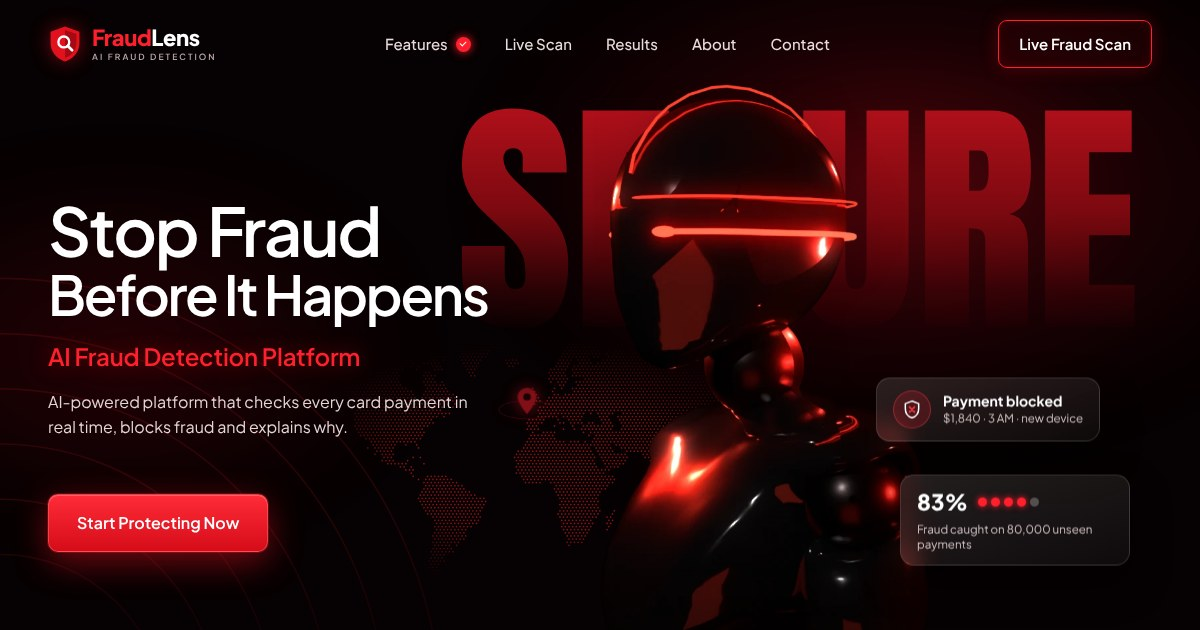
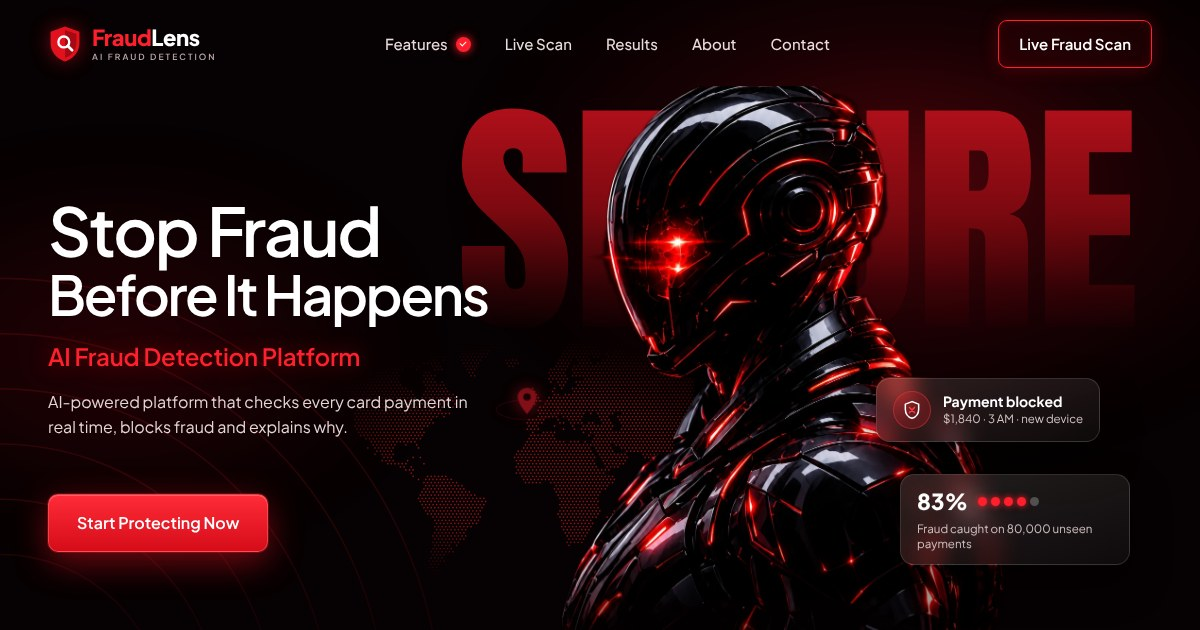
README and link preview: new hero screenshot

Changed region(s): [[0.4625, 0.1206, 0.8942, 1.0], [0.555, 0.9048, 0.6475, 1.0], [0.6783, 0.9952, 0.74, 1.0]]

diff --git a/index.html b/index.html
@@ -256,7 +256,7 @@
   <footer class="foot">
     <a class="brand" href="#top" aria-label="FraudLens home"><svg class="brand-mark" aria-hidden="true"><use href="#logo"/></svg><span class="brand-text"><b><em>Fraud</em>Lens</b></span></a>
     <span>Built by <b>Nimra Imran</b></span>
-    <span class="foot-links"><a href="/api/docs" target="_blank" rel="noopener">API docs</a><a href="https://github.com/NimrahImran/fraudlens" target="_blank" rel="noopener">GitHub</a><span>© <span id="year">2026</span></span></span>
+    <span class="foot-links"><a href="/api/docs" target="_blank" rel="noopener">API docs</a><a href="https://github.com/NimrahImran/fraudpulse" target="_blank" rel="noopener">GitHub</a><span>© <span id="year">2026</span></span></span>
   </footer>
 
   <script type="module" src="/src/main.js"></script>

diff --git a/README.md b/README.md
@@ -1,6 +1,6 @@
 # FraudLens · AI fraud detection
 
-[![CI](https://github.com/NimrahImran/fraudlens/actions/workflows/ci.yml/badge.svg)](https://github.com/NimrahImran/fraudlens/actions/workflows/ci.yml)
+[![CI](https://github.com/NimrahImran/fraudpulse/actions/workflows/ci.yml/badge.svg)](https://github.com/NimrahImran/fraudpulse/actions/workflows/ci.yml)
 [![Live demo](https://img.shields.io/badge/live%20demo-online-ff1f2d)](https://fraudpulse-ai.vercel.app)
 [![License: MIT](https://img.shields.io/badge/license-MIT-e3101d)](LICENSE)
 
@@ -9,7 +9,7 @@ happens, decides in under a millisecond, and explains why.
 
 **Live:** https://fraudpulse-ai.vercel.app · **API docs:** https://fraudpulse-ai.vercel.app/api/docs
 
-![FraudLens](public/og-image.jpg)
+![FraudLens hero](docs/hero.jpg)
 
 Built by **Nimra Imran**, AI Engineer.
 
